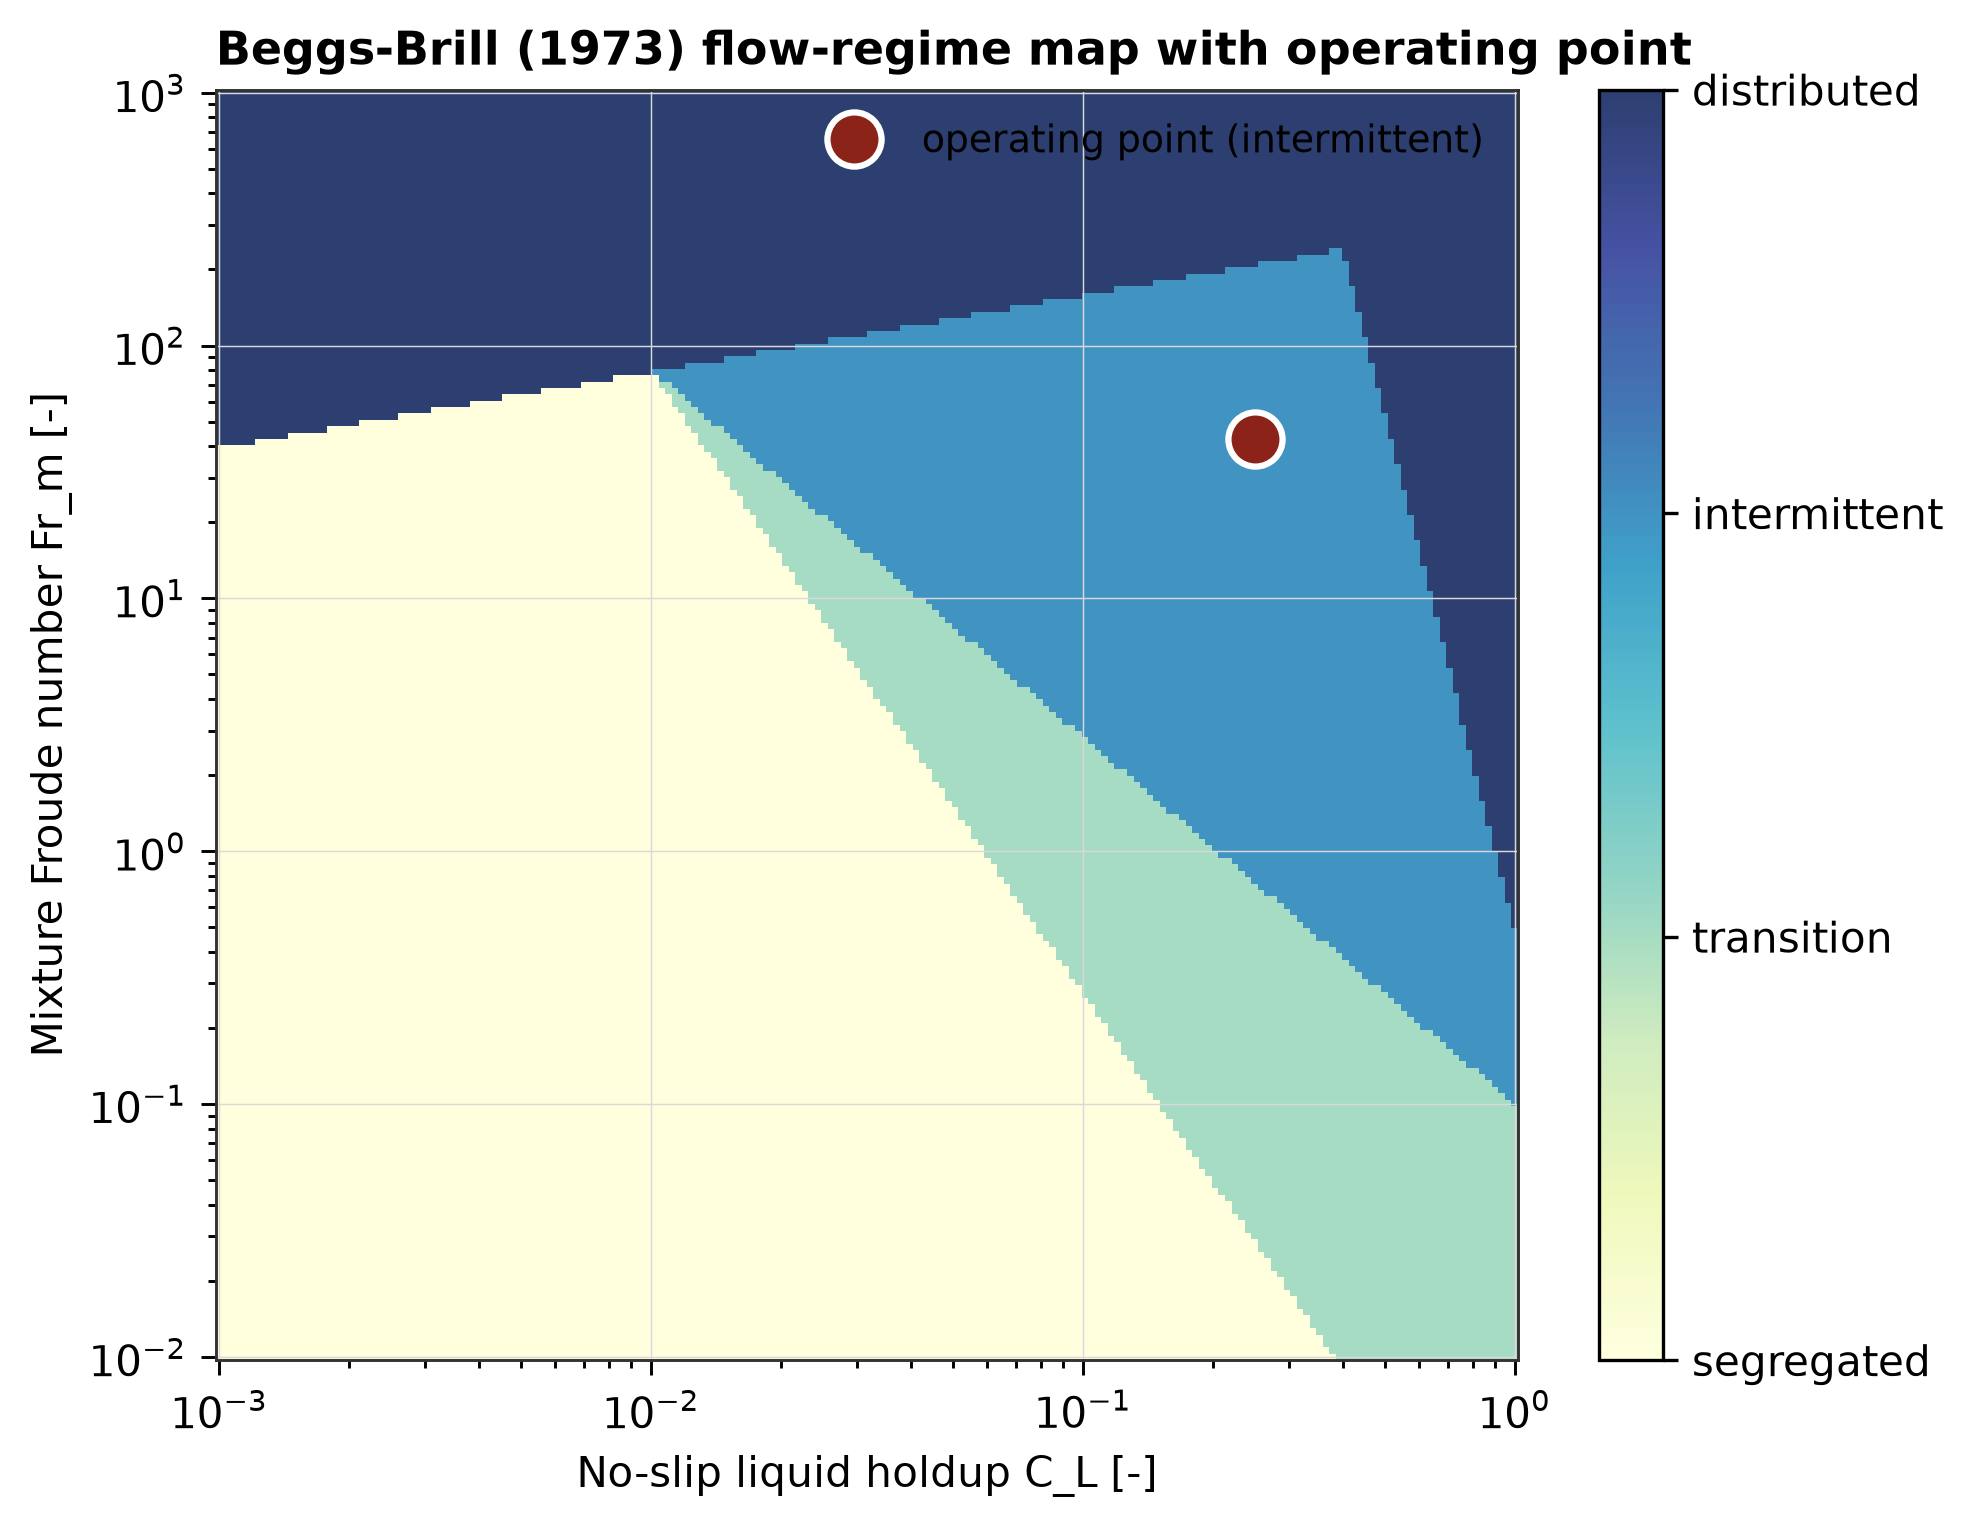
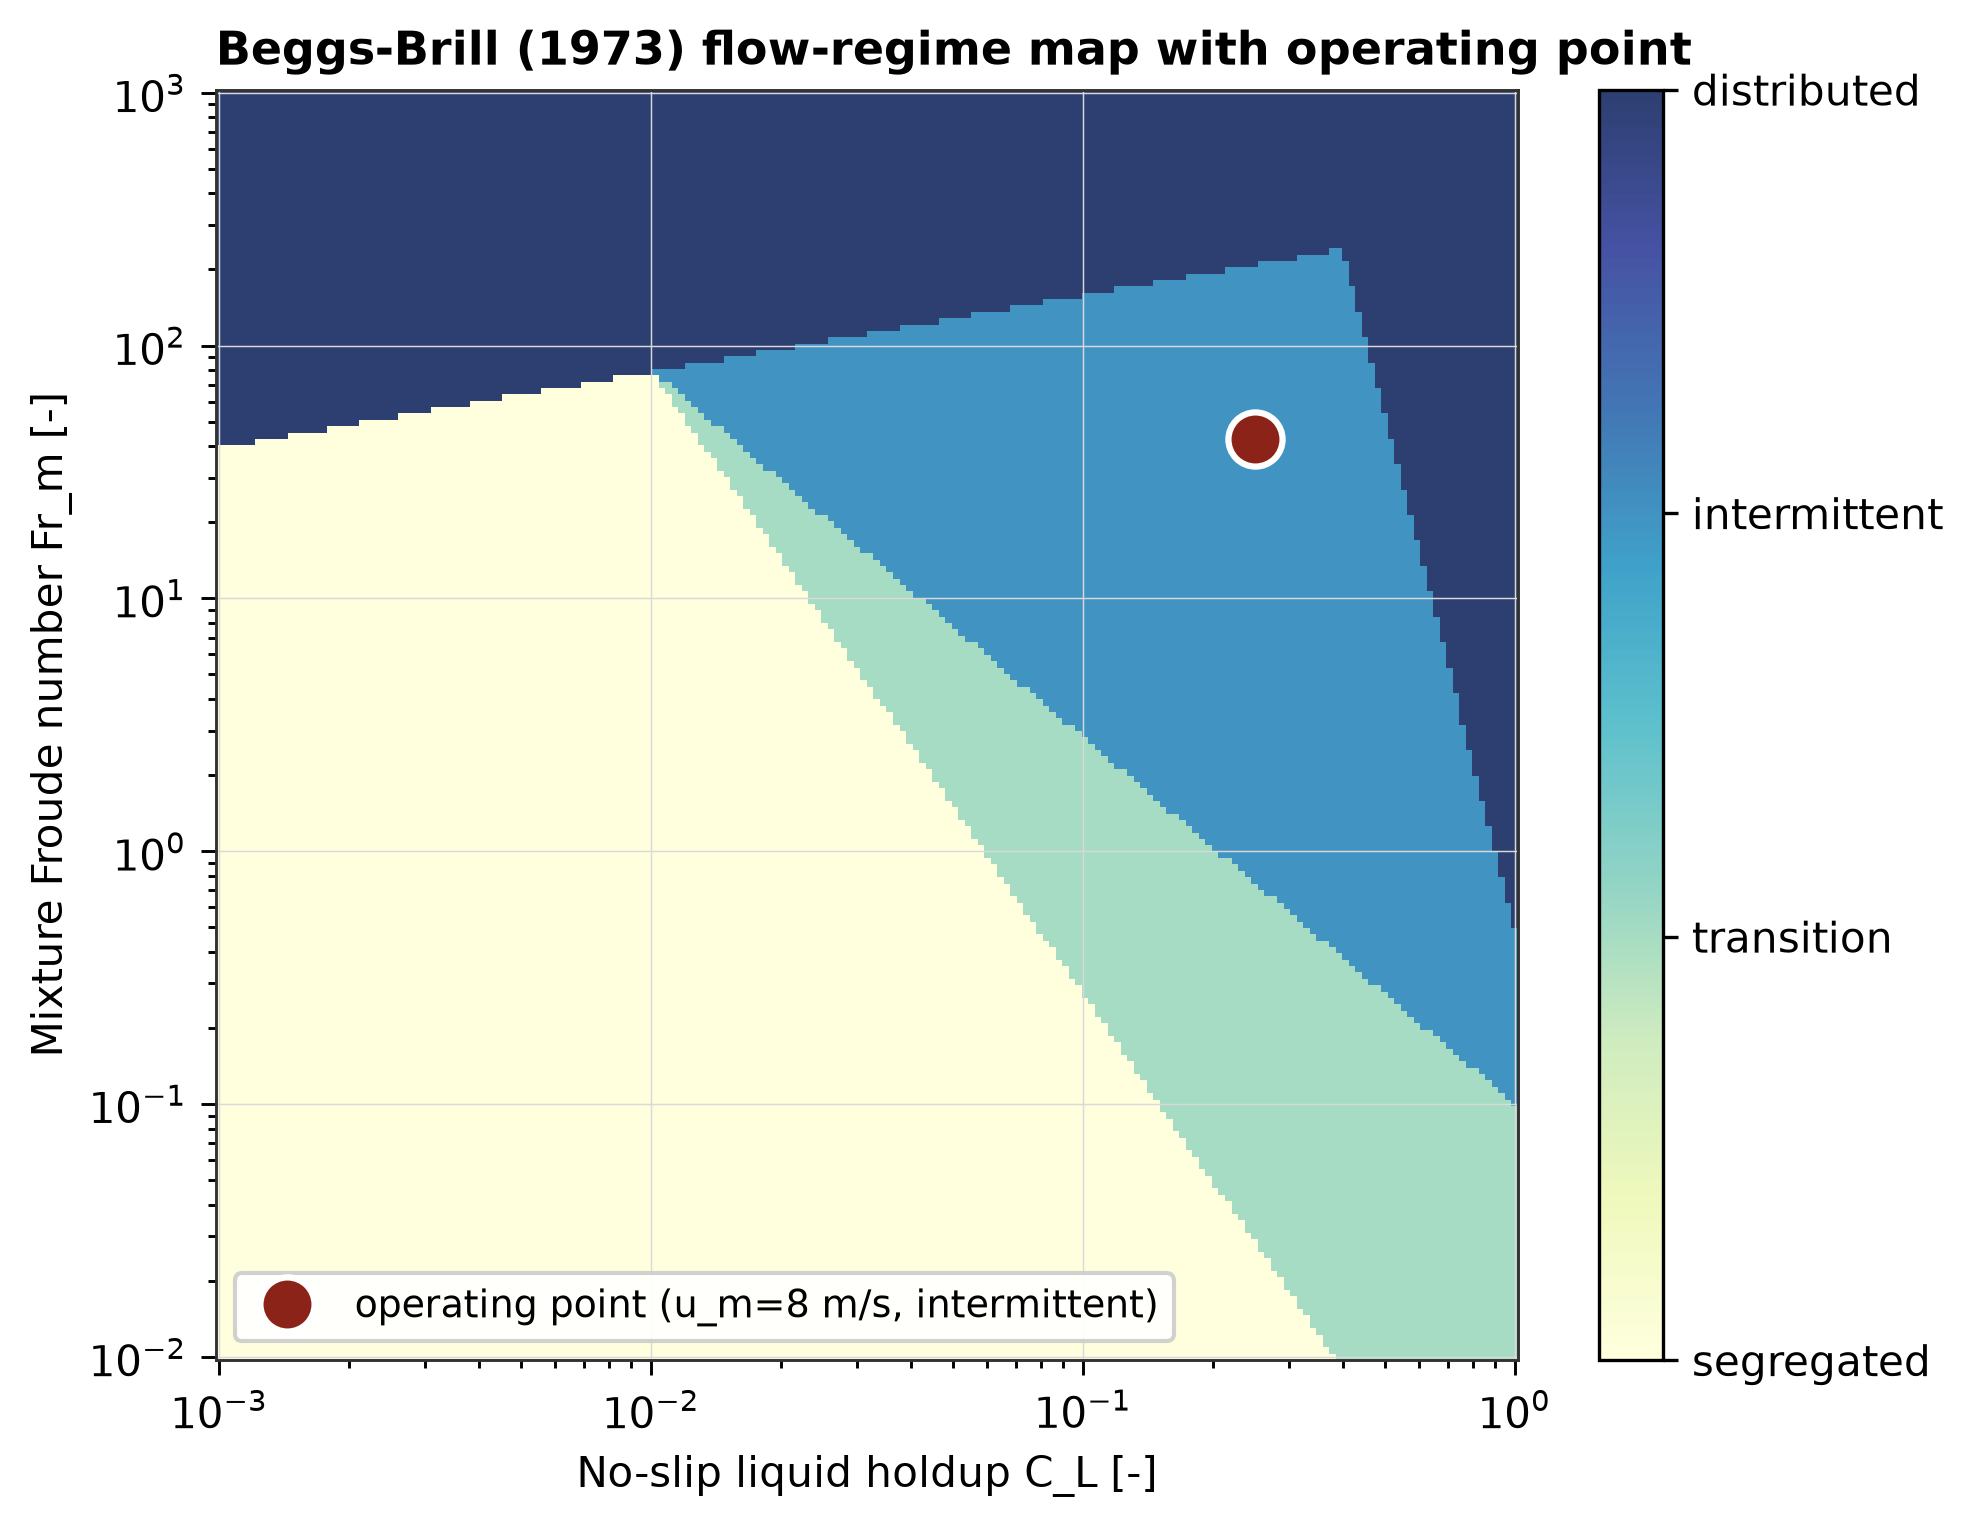
fix(viz): unclip and declutter figure annotations
- hero: global-peak label centred under the marker with a dark backing box;
  it was clipped at the right edge of panel (a).
- flow regime map: legend moved off the dark distributed band and states
  the operating point velocity (u_m = 8 m/s).
- Kt curve: peak annotation no longer overlaps the 60 C point.
- KAERI panel: source note moved below the x-axis label it touched.
- tornado title: "12,000 MC runs" (was ">12k"; dataset is exactly 12,000).
- synergy bars: no minor ticks on the categorical axis.
- GIF: colorbar label no longer collides with panel 3 y-label; perforation
  marker appears when reached; wall label above the marker; progress bar
  removed; 100 dpi (4.4 MB -> 2.6 MB).

No computed values changed. README hero alt text describes the figure.

diff --git a/viz/plot_secondary.py b/viz/plot_secondary.py
@@ -58,12 +58,12 @@ def flow_regime_map():
                        temp_c=60, p_total_bar=60, p_co2_bar=1.0, ph=5.5)
     fs = mpf.resolve_flow(op.q_l_m3s, op.q_g_m3s, D, watercut=0.6)
     ax.plot(fs.lambda_l, fs.froude, "o", color=P["dark_red"], ms=13, mec="white",
-            mew=1.5, zorder=5, label=f"operating point ({fs.regime})")
+            mew=1.5, zorder=5, label=f"operating point (u_m={u_m:.0f} m/s, {fs.regime})")
     ax.set_xlabel("No-slip liquid holdup C_L [-]", fontsize=10)
     ax.set_ylabel("Mixture Froude number Fr_m [-]", fontsize=10)
     ax.set_title("Beggs-Brill (1973) flow-regime map with operating point",
                  fontsize=11, loc="left", fontweight="bold")
-    ax.legend(frameon=False, fontsize=9)
+    ax.legend(frameon=True, framealpha=0.9, fontsize=9, loc="lower left")
     cbar = fig.colorbar(im, ax=ax, ticks=[0, 1, 2, 3])
     cbar.ax.set_yticklabels(["segregated", "transition", "intermittent", "distributed"])
     _style(ax)
@@ -102,6 +102,7 @@ def synergy_decomposition():
                  fontsize=11, loc="left", fontweight="bold")
     ax.legend(frameon=False, fontsize=8, loc="upper left")
     _style(ax)
+    ax.xaxis.set_minor_locator(plt.NullLocator())   # categorical axis
     out = os.path.join(_ASSETS, "synergy_decomposition.png")
     fig.savefig(out, dpi=300, bbox_inches="tight", facecolor="white"); plt.close(fig)
     return out
@@ -139,7 +140,7 @@ def sensitivity_tornado():
     colors = [P["navy"] if v == max(vals) else P["steel"] for v in vals]
     ax.barh(names, vals, color=colors)
     ax.set_xlabel("Surrogate feature importance [-]", fontsize=10)
-    ax.set_title("Sensitivity tornado (GBR surrogate over >12k MC runs)",
+    ax.set_title("Sensitivity tornado (GBR surrogate on 12,000 MC runs)",
                  fontsize=11, loc="left", fontweight="bold")
     _style(ax)
     out = os.path.join(_ASSETS, "sensitivity_tornado.png")
@@ -178,8 +179,9 @@ def kaeri_validation():
     kts = [C.NORSOK_KT[t] for t in temps]
     ax0.plot(temps, kts, "o-", color=P["navy"], lw=2, ms=7)
     ax0.axvline(60, color=P["dark_red"], lw=1, ls=":")
-    ax0.text(62, max(kts)*0.95, "Kt peak 60 C\n(FeCO3 protection)", fontsize=8,
-             color=P["dark_red"])
+    ax0.annotate("Kt peak 60 C\n(FeCO3 protection)", xy=(60, max(kts)),
+                 xytext=(66, 2.0), fontsize=8, color=P["dark_red"],
+                 arrowprops=dict(arrowstyle="->", color=P["dark_red"], lw=0.8))
     ax0.set_xlabel("Temperature [C]", fontsize=10)
     ax0.set_ylabel("NORSOK M-506:2017 constant Kt", fontsize=10)
     ax0.set_title("(a) NORSOK Kt vs temperature (Table 1, 2017)", fontsize=11,
@@ -201,7 +203,7 @@ def kaeri_validation():
                   loc="left", fontweight="bold")
     ax1.legend(frameon=False, fontsize=8)
     _style(ax1)
-    fig.text(0.99, 0.01, "Data: Kim et al. Nucl Eng Tech 53 (2021) 3003-3011 Table 2 (library copy)",
+    fig.text(0.99, -0.03, "Data: Kim et al. Nucl Eng Tech 53 (2021) 3003-3011 Table 2 (library copy)",
              ha="right", va="bottom", fontsize=7, color=P["steel"])
     out = os.path.join(_ASSETS, "kaeri_validation.png")
     fig.savefig(out, dpi=300, bbox_inches="tight", facecolor="white"); plt.close(fig)

diff --git a/viz/plot_gif.py b/viz/plot_gif.py
@@ -67,7 +67,7 @@ def build(n_frames=60, t_wall_mm=None):
     perf_clean = ef.time_to_perforation(lc.max(), t_wall_mm)
     perf_sandy = ef.time_to_perforation(ls.max(), t_wall_mm)
 
-    fig, (ax0, ax1, ax2) = plt.subplots(1, 3, figsize=(14, 4.6), dpi=150,
+    fig, (ax0, ax1, ax2) = plt.subplots(1, 3, figsize=(14, 4.6), dpi=100,
                                         gridspec_kw={"width_ratios": [1, 1, 0.9]})
     extent = [c[0], c[-1], a[0], a[-1]]
     im0 = ax0.imshow(np.minimum(lc * years[0], t_wall_mm), aspect="auto",
@@ -85,15 +85,17 @@ def build(n_frames=60, t_wall_mm=None):
     # peak-loss vs time, clamped at the wall
     peak_clean = np.minimum(lc.max() * years, t_wall_mm)
     peak_sandy = np.minimum(ls.max() * years, t_wall_mm)
-    ax2.set_xlim(0, years[-1]); ax2.set_ylim(0, t_wall_mm * 1.08)
+    ax2.set_xlim(0, years[-1]); ax2.set_ylim(0, t_wall_mm * 1.15)
     ax2.axhline(t_wall_mm, color=P["charcoal"], lw=1, ls="--")
-    ax2.text(0.2, t_wall_mm * 1.01, "nominal wall 12.7 mm (perforation)", fontsize=8,
-             color=P["charcoal"])
+    ax2.text(0.2, t_wall_mm * 1.035, f"nominal wall {t_wall_mm:.1f} mm (perforation)",
+             fontsize=8, color=P["charcoal"])
     line_c, = ax2.plot([], [], color=P["teal"], lw=2, label="clean")
     line_s, = ax2.plot([], [], color=P["dark_red"], lw=2, label="sand-laden")
+    perf_marks = []   # shown only once the animation reaches perforation
     for perf, col in [(perf_clean, P["teal"]), (perf_sandy, P["dark_red"])]:
         if math.isfinite(perf) and perf <= years[-1]:
-            ax2.plot(perf, t_wall_mm, marker="v", color=col, ms=9)
+            m, = ax2.plot(perf, t_wall_mm, marker="v", color=col, ms=9, visible=False)
+            perf_marks.append((perf, m))
     ax2.set_xlabel("Service time [yr]", fontsize=9)
     ax2.set_ylabel("Peak wall loss [mm]", fontsize=9)
     ax2.set_title("Peak wall loss vs time", fontsize=10, fontweight="bold")
@@ -102,10 +104,8 @@ def build(n_frames=60, t_wall_mm=None):
         for sp in ax.spines.values():
             sp.set_linewidth(0.7)
 
+    fig.subplots_adjust(wspace=0.45, bottom=0.12)   # keep colorbar label clear of panel 3
     txt = fig.suptitle("", fontsize=11, color=P["charcoal"])
-    pbar = fig.add_axes([0.12, 0.005, 0.76, 0.012])
-    pbar.axis("off")
-    prog = pbar.barh(0, 0, height=1, color=P["steel"])
 
     def update(k):
         yr = years[k]
@@ -115,7 +115,8 @@ def build(n_frames=60, t_wall_mm=None):
         line_s.set_data(years[:k + 1], peak_sandy[:k + 1])
         txt.set_text(f"ICS Week 11  |  Erosion-corrosion wall loss on elbow "
                      f"(CO2-corrosion-dominated)  |  t = {yr:.1f} yr")
-        prog[0].set_width(yr / years[-1])
+        for perf, m in perf_marks:
+            m.set_visible(yr >= perf)
         return im0, im1, line_c, line_s
 
     anim = animation.FuncAnimation(fig, update, frames=n_frames, blit=False)

diff --git a/viz/plot_hero.py b/viz/plot_hero.py
@@ -78,7 +78,9 @@ def build():
                  va="bottom")
     ax0.plot(pc_circ, pa_ang, marker="x", color="cyan", ms=10, mew=2)
     ax0.annotate(f"global peak {pk:.1f} mm @ {pa_ang:.0f} deg (intrados inlet)",
-                 xy=(pc_circ, pa_ang), color="cyan", fontsize=8, va="top")
+                 xy=(pc_circ, pa_ang), xytext=(0, -9), textcoords="offset points",
+                 color="cyan", fontsize=8, ha="center", va="top",
+                 bbox=dict(boxstyle="round,pad=0.2", fc="black", ec="none", alpha=0.55))
     ax0.set_title("(a) Erosion-corrosion wall-loss field on 90 deg elbow",
                   fontsize=11, loc="left", fontweight="bold")
     _style(ax0)

diff --git a/README.md b/README.md
@@ -34,7 +34,7 @@ operating parameters govern it?
 
 ## Key Result
 
-![Wall-loss field on the elbow](assets/hero_erosion_corrosion_week11.png)
+![Heatmap of 3-year wall loss over a 90 deg elbow (bend angle vs circumference) and extrados vs intrados loss profiles](assets/hero_erosion_corrosion_week11.png)
 
 The elbow wall-loss field uses a PRESCRIBED angular shear profile whose peak
 locations are fitted to the pattern reported by El-Gammal et al. 2010 / Kim et
